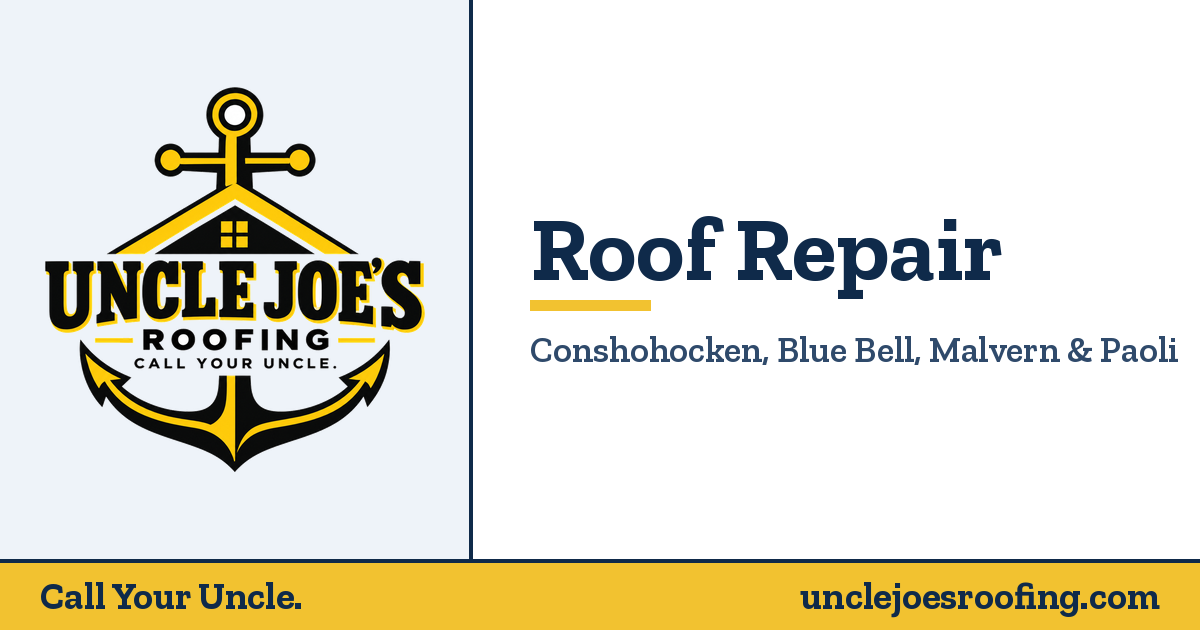
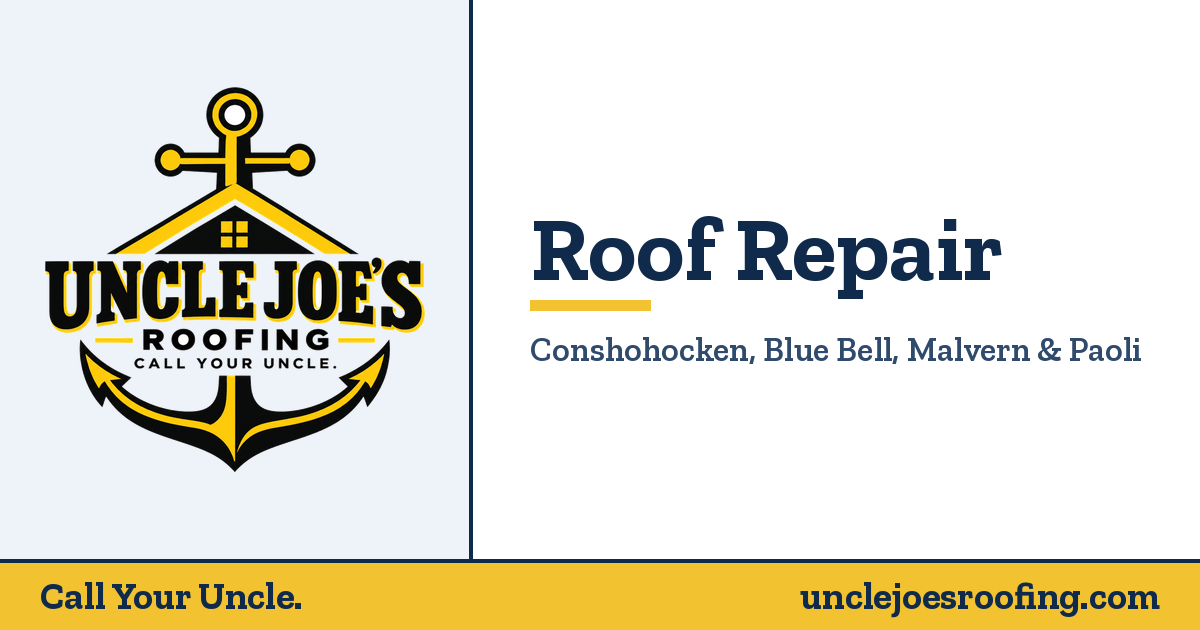
Review fixes: call-back jump links, menu and call-bar polish, placeholder guards, print styles
- "Or request a call back" link in service, town and guide heroes jumps to the
  lead form (it sat 3+ phone screens down with no shortcut)
- Desktop nav now shows from 1024px; mobile menu scrolls on short screens and
  the hamburger turns into a close icon; skip link target is focusable
- Sticky call bar drops the Book button on /book/ itself
- Lead form: accessible title, HIC + no-pressure reassurance line
- Structured data omits email, street and hours while they are placeholders;
  contact/legal pages hide the email row until it is set
- robots.txt no longer blocks /thank-you/ (noindex does the job)
- OG images: subtitle shrinks to fit instead of clipping; og:image:alt added
- Print stylesheet for the guides; Our Story explains the Fortress Siding DBA
- Service Areas: call button in "Not on the list?"

Claude-Session: https://claude.ai/code/session_01PnokVmEZYMyLrsAncaZLjM

Changed region(s): [[0.4317, 0.5127, 0.9867, 0.573]]

diff --git a/src/lib/schema.ts b/src/lib/schema.ts
@@ -9,6 +9,9 @@ const towns: { name: string; county: string }[] = [
 ];
 const townNames = [...towns.map((t) => t.name), ...nearbyTowns];
 
+/** True for config values that still carry a [… — PENDING] placeholder; those are kept out of structured data. */
+const pending = (v: string) => /PENDING|PLACEHOLDER/.test(v);
+
 /** RoofingContractor JSON-LD, built entirely from src/config/site.ts. */
 export function businessSchema() {
   return {
@@ -22,10 +25,10 @@ export function businessSchema() {
     logo: `${site.url}/icon-512.png`,
     image: `${site.url}/og/default.png`,
     telephone: site.phone.e164,
-    email: site.email,
+    ...(pending(site.email) ? {} : { email: site.email }),
     address: {
       '@type': 'PostalAddress',
-      streetAddress: site.address.street,
+      ...(pending(site.address.street) ? {} : { streetAddress: site.address.street }),
       addressLocality: site.address.city,
       addressRegion: site.address.region,
       postalCode: site.address.postalCode,
@@ -42,12 +45,13 @@ export function businessSchema() {
       { '@type': 'AdministrativeArea', name: 'Montgomery County, PA' },
       { '@type': 'AdministrativeArea', name: 'Chester County, PA' },
     ],
-    openingHoursSpecification: site.hours.map((h) => ({
+    // Hours are published only once the stand-in labels are replaced (see README → Placeholders).
+    ...(site.hours.some((h) => pending(h.label)) ? {} : { openingHoursSpecification: site.hours.map((h) => ({
       '@type': 'OpeningHoursSpecification',
       dayOfWeek: h.schemaDays,
       opens: h.opens,
       closes: h.closes,
-    })),
+    })) }),
     priceRange: '$$',
     knowsAbout: ['Roof replacement', 'Roof repair', 'Roof inspection', 'Asphalt shingle roofing', 'Solar-ready roofing'],
     sameAs: Object.values(site.social).filter(Boolean),

diff --git a/src/styles/global.css b/src/styles/global.css
@@ -194,5 +194,16 @@
   }
 
   .card-lift { @apply transition-[transform,box-shadow,border-color] duration-200; }
+
+  /* Print: the guides are meant to be printed and compared line by line */
+  @media print {
+    header, footer, nav, .waves, [data-motion] img, iframe, .btn, aside#request, .bg-shingles::before, .bg-glow::after { display: none !important; }
+    .on-dark, .on-dark * { background: #fff !important; color: #111 !important; }
+    html.js .reveal { opacity: 1 !important; transform: none !important; }
+    details { break-inside: avoid; }
+    details > summary span[aria-hidden] { display: none; }
+    details:not([open]) > *:not(summary) { display: block; }
+    a[href^='http']::after { content: ' (' attr(href) ')'; font-size: 0.85em; }
+  }
   .card-lift:hover, .card-lift:focus-within { transform: translateY(-3px); box-shadow: var(--shadow-sign); border-color: var(--color-navy); }
 }

diff --git a/scripts/make-og-images.py b/scripts/make-og-images.py
@@ -64,7 +64,11 @@ def make(name, headline, sub):
         if len(lines) <= 3 or size <= 56:
             break
         size -= 6
-    sub_font = ImageFont.truetype(str(SLAB_SEMI), 36)
+    sub_size = 36
+    sub_font = ImageFont.truetype(str(SLAB_SEMI), sub_size)
+    while d.textlength(sub, font=sub_font) > maxw and sub_size > 22:
+        sub_size -= 2
+        sub_font = ImageFont.truetype(str(SLAB_SEMI), sub_size)
     line_h = int(size * 1.08)
     block = len(lines) * line_h + 30 + 44
     y = (560 - block) // 2

diff --git a/src/content/pages/our-story.md b/src/content/pages/our-story.md
@@ -20,4 +20,6 @@ Everybody needs an uncle who knows roofs. The one you call when you want a strai
 
 That's us. We're a roofing-only company based in Blue Bell, working in Conshohocken, Malvern, Paoli and the towns around them. We're owner-led, we work with local crews, and we price our work fairly. No storm-chasing. No pressure. Just good roofs, done right, for our neighbors.
 
+One note on the fine print: on paperwork you'll see Fortress Siding. That's the company Uncle Joe's Roofing operates under — same owner, same office. We gave the roofing work its own name because that's all it does.
+
 So if you've got a roof question, call your uncle.
